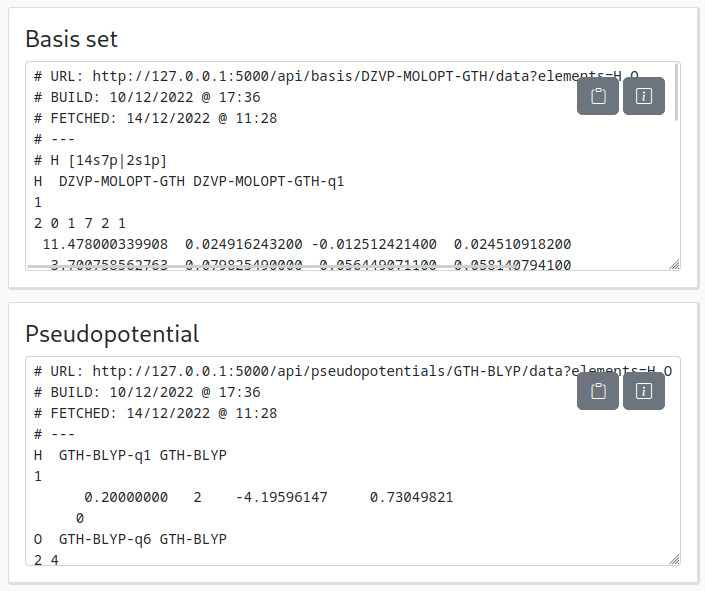
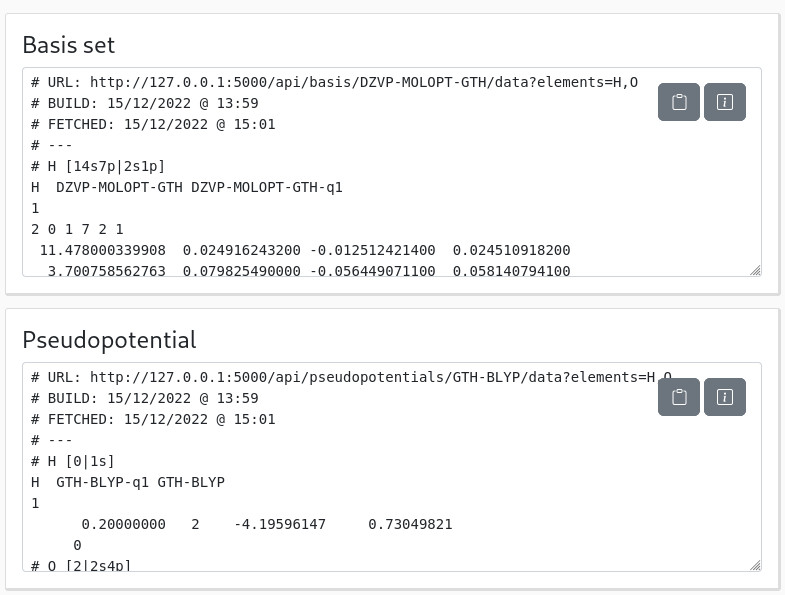
Fix #3 and #4 (#9)
* fix #4

* fix #3

* add some info in the output of pseudo

Changed region(s): [[0.0, 0.0, 0.9986, 0.5482], [0.0, 0.5482, 0.9986, 1.0], [0.4681, 0.8223, 0.6553, 0.9137]]

diff --git a/cp2k_basis_webservice/assets/scripts.js b/cp2k_basis_webservice/assets/scripts.js
@@ -232,21 +232,21 @@ export class Controller  {
             if(variants.length === 0) {
                 kind += `# No compatible variant for ${e}: [basis set=${Object.keys(this.basisSetVariants[e])}] and [pseudo=${Object.keys(this.pseudoVariants[e])}].\n`;
             } else {
-                /* by default, select the variant with the largest q, since it is the mostly available
+                /* by default, select the variant with the largest q (least core electrons), since it is the mostly available
                 * */
                 let variant = `q` + Math.max(...variants.map(e => parseInt(e.substring(1))));
 
                 if(this.basisSetSelected.length > 0) {
                     kind += `  BASIS_SET ${this.basisSetVariants[e][variant]}`;
                     if(variants.length > 1)
-                        kind += ` # or ${variants.filter(v => v !== variant).map(v => this.basisSetVariants[e][v])}`;
+                        kind += ` ! or ${variants.filter(v => v !== variant).map(v => this.basisSetVariants[e][v])}`;
                     kind += '\n';
                 }
 
                 if(this.pseudoSelected.length > 0) {
                     kind += `  POTENTIAL ${this.pseudoVariants[e][variant]}`;
                     if(variants.length > 1)
-                        kind += ` # or ${variants.filter(v => v !== variant).map(v => this.pseudoVariants[e][v])}`;
+                        kind += ` ! or ${variants.filter(v => v !== variant).map(v => this.pseudoVariants[e][v])}`;
                     kind += '\n';
                 }
             }

diff --git a/cp2k_basis_webservice/templates/index.html b/cp2k_basis_webservice/templates/index.html
@@ -24,7 +24,7 @@
                 <img src="{{ url_for('static', filename='images/logo.svg') }}" alt="Logo" height="100" class="float-end mx-2">
                 <h2>Welcome to {{ site_name }}</h2>
                 <p>
-                    This website provide an equivalent to the famous <a href="https://www.basissetexchange.org/">basis set exchange</a> for the <a href="https://pierre-24.github.io/cp2k-basis/basis_sets_and_pseudos/">basis sets and GTH pseudopotentials</a> used in the <a href="https://www.cp2k.org/">CP2K program</a>.
+                    This website provide an equivalent to the famous <a href="https://www.basissetexchange.org/">basis set exchange</a> for the <a href="https://pierre-24.github.io/cp2k-basis/users/basis_sets_and_pseudos/">basis sets and GTH pseudopotentials</a> used in the <a href="https://www.cp2k.org/">CP2K program</a>.
                     Data are obtained from <a href="https://github.com/cp2k/cp2k/tree/master/data">the CP2K <code>data</code> folder</a> (see <a href="https://github.com/pierre-24/cp2k-basis/blob/master/library/">here</a>).
                     For other kind of basis sets and potentials, please go to the <a href="https://www.basissetexchange.org/">BSE</a>.
                 </p>

diff --git a/cp2k_basis/base_objects.py b/cp2k_basis/base_objects.py
@@ -24,7 +24,8 @@ class BaseAtomicVariantDataObject:
 
     def preferred_name(self, family_name: str, variant: str) -> str:
         """Select one of the `self.names`, hopefully containing the family name and the variant.
-        If not, try to select one that contains the variant, and if not, return the first name.
+        If not, try to select one that contains the variant, and if not the family name, and if not,
+        return the first name.
         """
 
         try:
@@ -33,7 +34,10 @@ class BaseAtomicVariantDataObject:
             try:
                 return next(filter(lambda x: variant in x, self.names))
             except StopIteration:
-                return self.names[0]
+                try:
+                    return next(filter(lambda x: family_name in x, self.names))
+                except StopIteration:
+                    return self.names[0]
 
     def dump_hdf5(self, group: h5py.Group):
         """Dump in HDF5"""

diff --git a/cp2k_basis/pseudopotential.py b/cp2k_basis/pseudopotential.py
@@ -5,6 +5,7 @@ import numpy
 
 from cp2k_basis import logger
 from cp2k_basis.base_objects import BaseAtomicDataObject, BaseFamilyStorage, Storage, BaseAtomicVariantDataObject
+from cp2k_basis.elements import SYMB_TO_Z, L_TO_SHELL
 from cp2k_basis.parser import BaseParser, TokenType
 
 
@@ -95,7 +96,14 @@ class AtomicPseudopotentialVariant(BaseAtomicVariantDataObject):
         self.nlprojectors = nlprojectors
 
     def __str__(self) -> str:
-        r = '{}  {}\n{}\n'.format(
+        r = '# {} [{}|{}]\n'.format(
+            self.symbol,
+            SYMB_TO_Z[self.symbol] - sum(self.nelec),
+            ''.join('{}{}'.format(self.nelec[i], L_TO_SHELL[i]) if self.nelec[i] != 0 else ''
+                    for i in range(len(self.nelec)))
+        )
+
+        r += '{}  {}\n{}\n'.format(
             self.symbol, ' '.join(self.names), ' '.join('{}'.format(x) for x in self.nelec))
 
         # local part

diff --git a/cp2k_basis/basis_set.py b/cp2k_basis/basis_set.py
@@ -4,18 +4,9 @@ import numpy
 from typing import List, Iterable
 
 from cp2k_basis import logger
+from cp2k_basis.elements import L_TO_SHELL
 from cp2k_basis.parser import BaseParser, TokenType
 from cp2k_basis.base_objects import BaseAtomicVariantDataObject, BaseAtomicDataObject, BaseFamilyStorage, Storage
-
-L_TO_SHELL = {
-    0: 's',
-    1: 'p',
-    2: 'd',
-    3: 'f',
-    4: 'g',
-    5: 'h'
-}
-
 
 l_logger = logger.getChild('basis_set')
 

diff --git a/cp2k_basis/elements.py b/cp2k_basis/elements.py
@@ -221,3 +221,13 @@ class ElementSetField(fields.Field):
             return ElementSet.create(value)
         except ValueError as e:
             raise ValidationError(str(e))
+
+
+L_TO_SHELL = {
+    0: 's',
+    1: 'p',
+    2: 'd',
+    3: 'f',
+    4: 'g',
+    5: 'h'
+}

diff --git a/docs/users/webserver.md b/docs/users/webserver.md
@@ -24,19 +24,19 @@ In particular, your input looks like:
           H      11.922476       1.573799       9.986994
         &END COORD
         &KIND H
-          BASIS_SET ??  # <- pick one
-          POTENTIAL ??  # <- pick one
+          BASIS_SET ??  ! <- pick one
+          POTENTIAL ??  ! <- pick one
         &END KIND
         &KIND O
-          BASIS_SET ??  # <- pick one
-          POTENTIAL ??  # <- pick one
+          BASIS_SET ??  ! <- pick one
+          POTENTIAL ??  ! <- pick one
         &END KIND
     &END SUBSYS
     &DFT
-        BASIS_SET_FILE_NAME  BASIS_SET      # <- should contain your basis set(s)
-        POTENTIAL_FILE_NAME  GTH_POTENTIALS # <- should contain your pseudo(s)
+        BASIS_SET_FILE_NAME  BASIS_SET      ! <- should contain your basis set(s)
+        POTENTIAL_FILE_NAME  GTH_POTENTIALS ! <- should contain your pseudo(s)
         &XC
-          &XC_FUNCTIONAL ??  # <- pick one
+          &XC_FUNCTIONAL ??  ! <- pick one
           &END XC_FUNCTIONAL
         &END XC
         # (...)
@@ -78,9 +78,15 @@ In particular, the first panel should be copied in a `BASIS_SET` file that will 
 
 ![](../images/webserver_panels.jpg)
 
-If you use a recent brower, you can use the copy button to do so: ![](../images/webserver_copy_btn.jpg).
+!!! info
+    These panels also report when the library of basis sets and pseudo was built, as a comment.
+    To ease your life latter (check for errors), it might be useful to keep it.
+    It also gives the address to the [API call that generates this output](api.md), if you want.
 
-The information button, ![](../images/webserver_info_btn.jpg) opens an extra area with some info on the basis set or pseudopotential, in particular the references to cite in your articles:
+If you use a recent brower, you can use the copy button to perform the copy 
+![](../images/webserver_copy_btn.jpg).
+
+The information button, ![](../images/webserver_info_btn.jpg) opens an extra area with some info on the basis set or pseudopotential, in particular the references you need to cite in your articles:
 
 ![](../images/webserver_info_area.jpg)
 
@@ -99,7 +105,7 @@ This has two (interesting!) side effects:
      
     ![](../images/webserver_kind_panel_multiple.jpg)
 
-    In this case, you can safely replace `-q3` by `-q1` for both the basis set and the potential, since they are both available (see the two panels in the top). It will, of course, impact the results.
+    In this case, you can safely replace `-q3` (all-electron) by `-q1` (2 core electron embedded in the pseudopotential) for both the basis set and the potential, since they are both available (see the two panels in the top). It will, of course, impact the results.
 
 2. If you select combination that are incompatible (e.g., the all-electron pseudopotential `ALL` with a pseudo basis set), it will be indicated:
 
